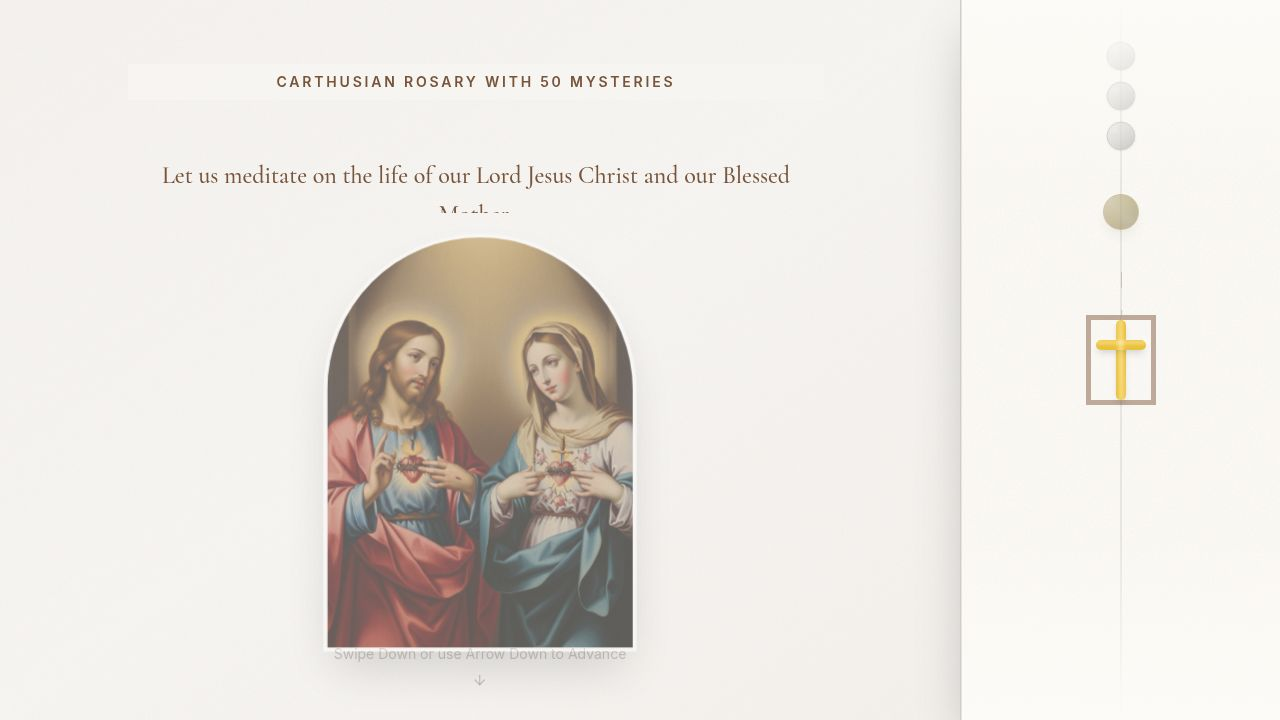
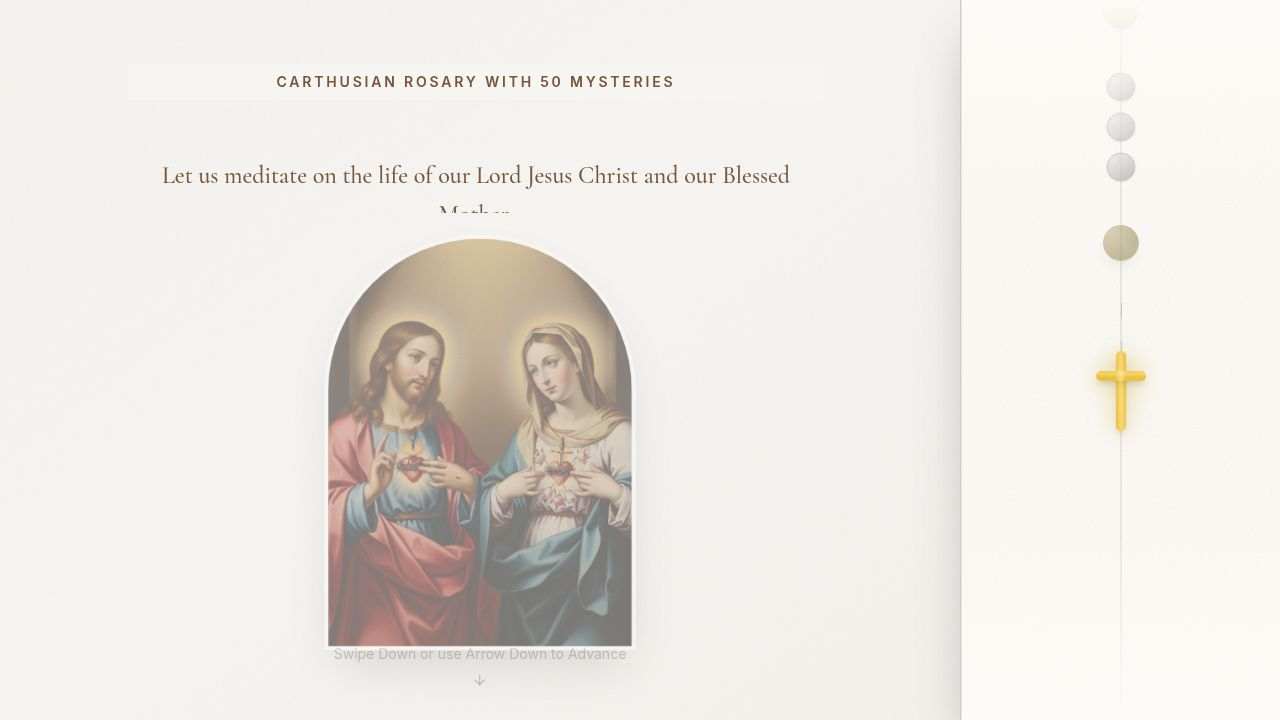
Improve appearance of active cross bead with a golden glow effect
Update the active styling for the cross bead in `RosaryBead.tsx` to use a custom class string, removing the rectangular box and adding a drop-shadow glow.

Replit-Commit-Author: Agent
Replit-Commit-Session-Id: 25b339cd-3716-4f78-8386-5317aa2d4dc7
Replit-Commit-Checkpoint-Type: full_checkpoint
Replit-Commit-Event-Id: 5816d573-18c4-45ef-aabc-51a48431a552
Replit-Commit-Screenshot-Url: https://storage.googleapis.com/screenshot-production-us-central1/941b3aaa-a93e-45de-b1a7-b79ef8a0b149/25b339cd-3716-4f78-8386-5317aa2d4dc7/5CDQQPh
Replit-Helium-Checkpoint-Created: true

diff --git a/client/src/components/RosaryBead.tsx b/client/src/components/RosaryBead.tsx
@@ -44,8 +44,10 @@ export const RosaryBead: React.FC<RosaryBeadProps> = ({ type, isActive, label, i
     >
       {isCross && (
         <div className={cn(
-          "w-12 h-16 flex flex-col items-center relative",
-          activeStyle
+          "w-12 h-16 flex flex-col items-center relative transition-all duration-500",
+          isActive 
+            ? "scale-125 z-10 brightness-110 drop-shadow-[0_0_10px_rgba(212,175,55,0.6)]" 
+            : "opacity-60 scale-90 hover:opacity-100 hover:scale-100 brightness-90 saturate-50"
         )}>
           {/* Connecting point to chain above */}
           <div className="w-[1px] h-2 bg-stone-400/50 absolute -top-2" />
